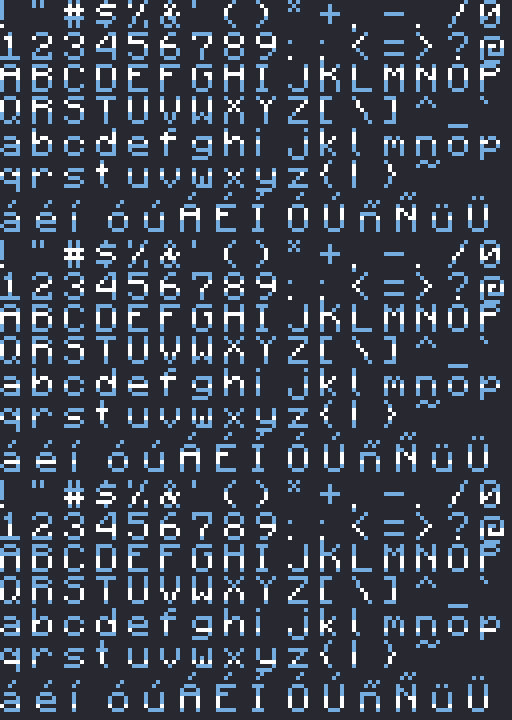
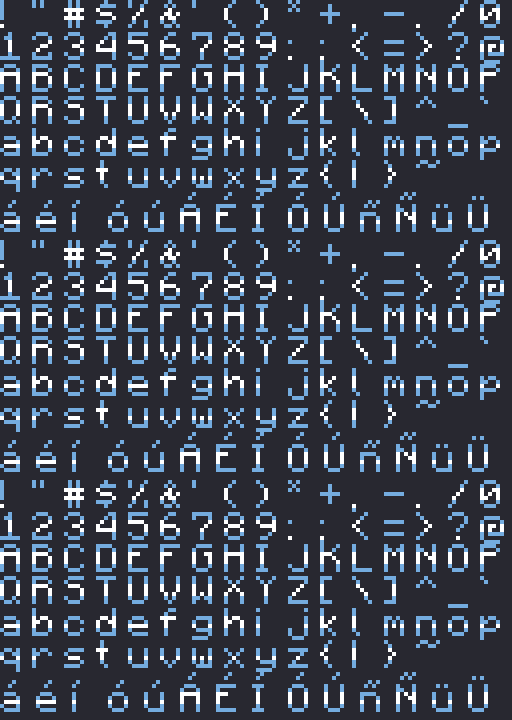
Pack: franjas fijas en el chat de Argentina, sin onda

diff --git a/fuente/bandera.py b/fuente/bandera.py
@@ -84,7 +84,7 @@ def png(img):
     return b.getvalue()
 
 
-FASES = (-1, 0, 1)
+FASES = (0, 0, 0)  # franjas fijas: las tres variantes son iguales (el chat no se puede animar)
 imgs = [(hoja(rows, 8, 8, lambda c, f=f: glifo(c, f)), hoja(filas_acc, 9, 12, lambda c, f=f: glifo_acc(c, f))) for f in FASES]
 vista = Image.new('RGBA', (imgs[0][0].width, sum(a.height + b.height for a, b in imgs)), (40, 40, 48, 255))
 y0 = 0
